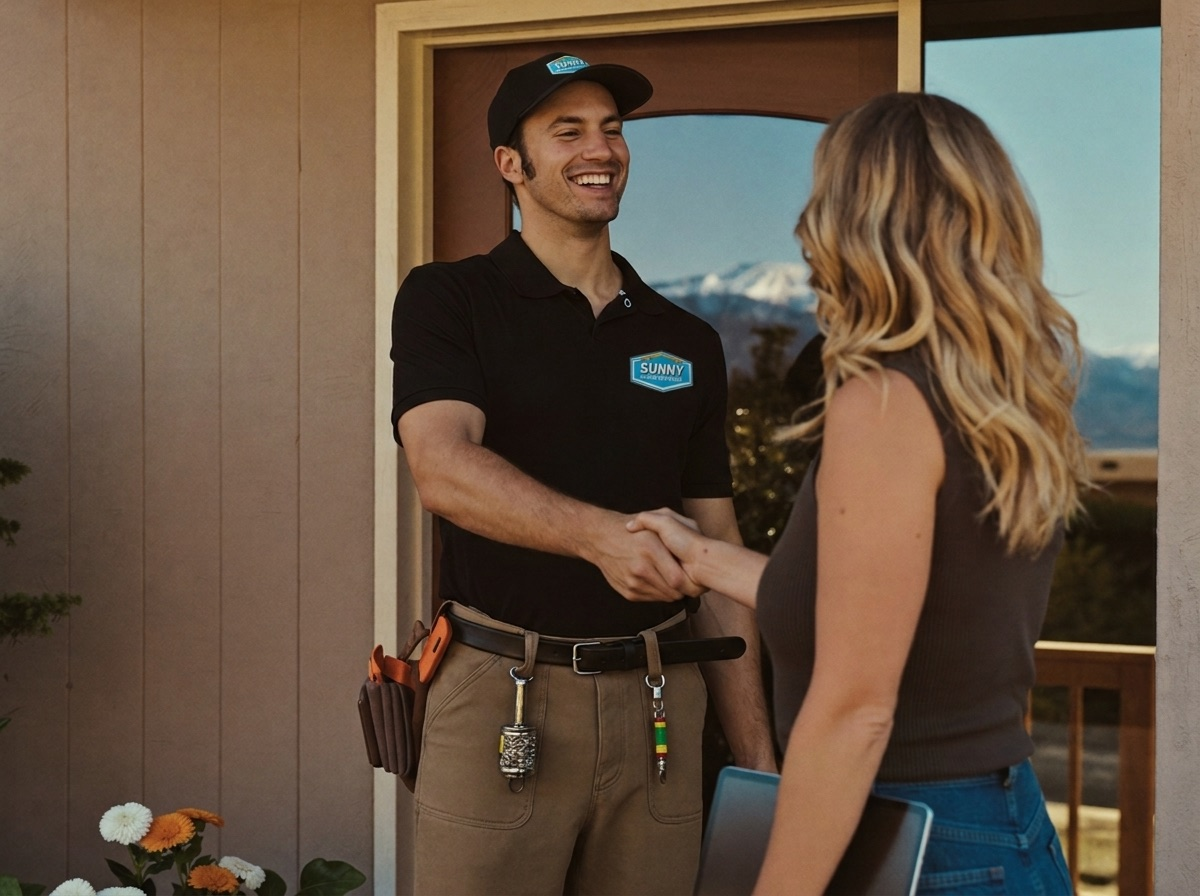
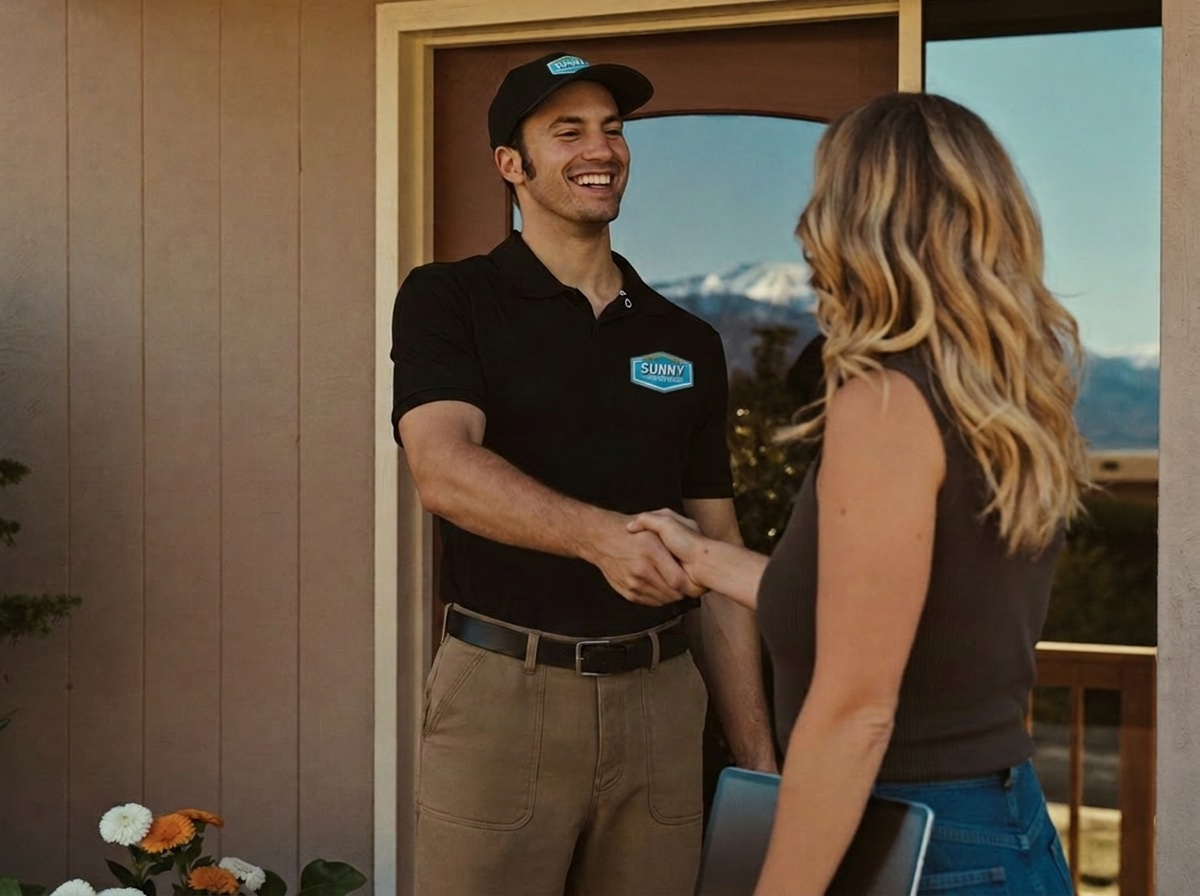
Service tiles recognizable + fully unbranded; About blend; compact ticket offers
- Heating tile is now an actual furnace with a visible burner flame; Drains is a
  drum auger feeding a cleanout. Both text-scrubbed via nano_banana_pro (soul_2
  reliably invents gibberish brand text on equipment; recipe recorded).
- Why Choose Us photo: random belt clutter removed, logo patch preserved.
- About: gradient now ends in the section's own background color (--sky-deep), which
  removes the visible seam; added a bottom anchor gradient; stat cards sit on solid
  translucent surfaces with white numerals and gold labels for legibility.
- Offers: coupons rebuilt as compact horizontal tickets (value stub left with dashed
  perforation, benefits right, full-width CTA), cutting the section height roughly in
  half while looking more like real coupons.

Tile copy note: each tile's description is the opening sentence of that service's
section in the copywriter's homepage brief, trimmed to card length. Nothing invented.

diff --git a/css/sunny-home.css b/css/sunny-home.css
@@ -283,7 +283,7 @@
 .about-van-split { overflow: hidden; }
 .about-van-bg {
   position: absolute; top: 0; bottom: 0; left: 0;
-  width: 46%; z-index: 0; overflow: hidden; pointer-events: none;
+  z-index: 0; overflow: hidden; pointer-events: none;
 }
 .about-van-bg img {
   position: absolute; top: -6%; left: 0;
@@ -291,12 +291,21 @@
   object-fit: cover; object-position: center left;
   will-change: transform;
 }
+.about-van-bg { width: 52%; }
 .about-van-bg::after {
   content: ""; position: absolute; inset: 0;
+  /* end color MUST equal .section-about's background (--sky-deep) or a seam shows */
   background: linear-gradient(90deg,
-    rgba(2,136,168,0.05) 0%,
-    rgba(2,136,168,0.25) 62%,
-    var(--sky-darker) 100%);
+    rgba(3,166,204,0.10) 0%,
+    rgba(3,166,204,0.18) 35%,
+    rgba(3,166,204,0.55) 68%,
+    rgba(3,166,204,0.88) 88%,
+    var(--sky-deep) 100%);
+}
+/* subtle bottom anchor so the van doesn't hard-stop at the section edge */
+.about-van-bg::before {
+  content: ""; position: absolute; left: 0; right: 0; bottom: 0; height: 30%; z-index: 1;
+  background: linear-gradient(180deg, rgba(3,166,204,0) 0%, rgba(3,166,204,0.45) 100%);
 }
 .about-van-split .about-grid {
   position: relative; z-index: 1;
@@ -316,3 +325,55 @@
 }
 .coupon .coupon-perf { border-top-width: 3px; }
 .offers { gap: 34px; }
+
+
+/* ---------- About stat cards: solid surfaces so they stay legible over the teal ---------- */
+.about-van-split .stat-card {
+  background: rgba(2, 102, 127, 0.55);
+  border: 1px solid rgba(255,255,255,0.28);
+  border-radius: 12px;
+  backdrop-filter: blur(3px);
+}
+.about-van-split .stat-big { color: var(--white); }
+.about-van-split .stat-lbl { color: var(--yellow); }
+
+/* ---------- Offers: compact horizontal ticket layout ----------
+   The stacked value + list + CTA made the section very tall. Each coupon is now a
+   two-column ticket: value block left, includes list + CTA right. */
+.offers-two {
+  grid-template-columns: repeat(2, minmax(0, 520px));
+  justify-content: center;
+  max-width: 1100px;
+  margin-left: auto; margin-right: auto;
+}
+.coupon-feature {
+  display: grid;
+  grid-template-columns: 168px 1fr;
+  gap: 0 22px;
+  align-items: center;
+  text-align: left;
+  padding: 24px 24px 22px;
+}
+.coupon-feature .coupon-value { font-size: 46px; margin: 0; }
+.coupon-feature .coupon-desc { font-size: 13px; margin: 4px 0 0; }
+.coupon-feature .coupon-perf {
+  grid-column: 1; grid-row: 3;
+  border-top: none;
+  margin: 0;
+}
+.coupon-feature > .coupon-value,
+.coupon-feature > .coupon-desc { grid-column: 1; }
+.coupon-feature .coupon-includes-label { grid-column: 2; grid-row: 1; margin: 0 0 2px; }
+.coupon-feature .coupon-includes { grid-column: 2; grid-row: 2 / span 2; margin: 0; gap: 6px; }
+.coupon-feature .coupon-cta { grid-column: 1 / -1; grid-row: 4; margin-top: 16px; }
+/* value block gets its own perforated right edge */
+.coupon-feature .coupon-value,
+.coupon-feature .coupon-desc { position: relative; }
+.coupon-feature::before {
+  content: ""; position: absolute; top: 20px; bottom: 68px; left: 186px;
+  border-left: 3px dashed var(--c, var(--sky));
+  opacity: 0.55;
+}
+@media (max-width: 900px) {
+  .offers-two { grid-template-columns: 1fr; }
+}

diff --git a/assets/PHOTO-PROMPTS.md b/assets/PHOTO-PROMPTS.md
@@ -173,3 +173,16 @@ should wear the real Sunny logo. All Higgsfield, no third-party source images.
 Lesson: soul_2 invents gibberish brand text on equipment even when told not to.
 The reliable recipe is generate, then run a nano_banana_pro edit: "remove ALL text,
 letters, stickers, labels, badges and logos from every surface."
+
+---
+
+# GENERATED 2026-07-14 (round 4) - service-recognizable + fully clean
+
+| File | Job | Note |
+|---|---|---|
+| services/heating.jpg | 2b90fed1-2e37-4dc0-806d-cedabf0717b6 | furnace w/ visible burner flame; text-scrub of 26666ba7 |
+| services/drains.jpg | 09f4fb35-b75c-4266-ab48-d23efaf7cc36 | drum auger cable into cleanout; text-scrub of be52c24e |
+| services/why-team.jpg | 443a5e90-71fd-453a-a5b0-7789daa99d5a | belt clutter removed from 2d3815e6 |
+
+Confirmed recipe: soul_2 ALWAYS invents gibberish brand text on equipment, so every
+equipment shot needs the nano_banana_pro "remove ALL text..." edit pass afterward.
